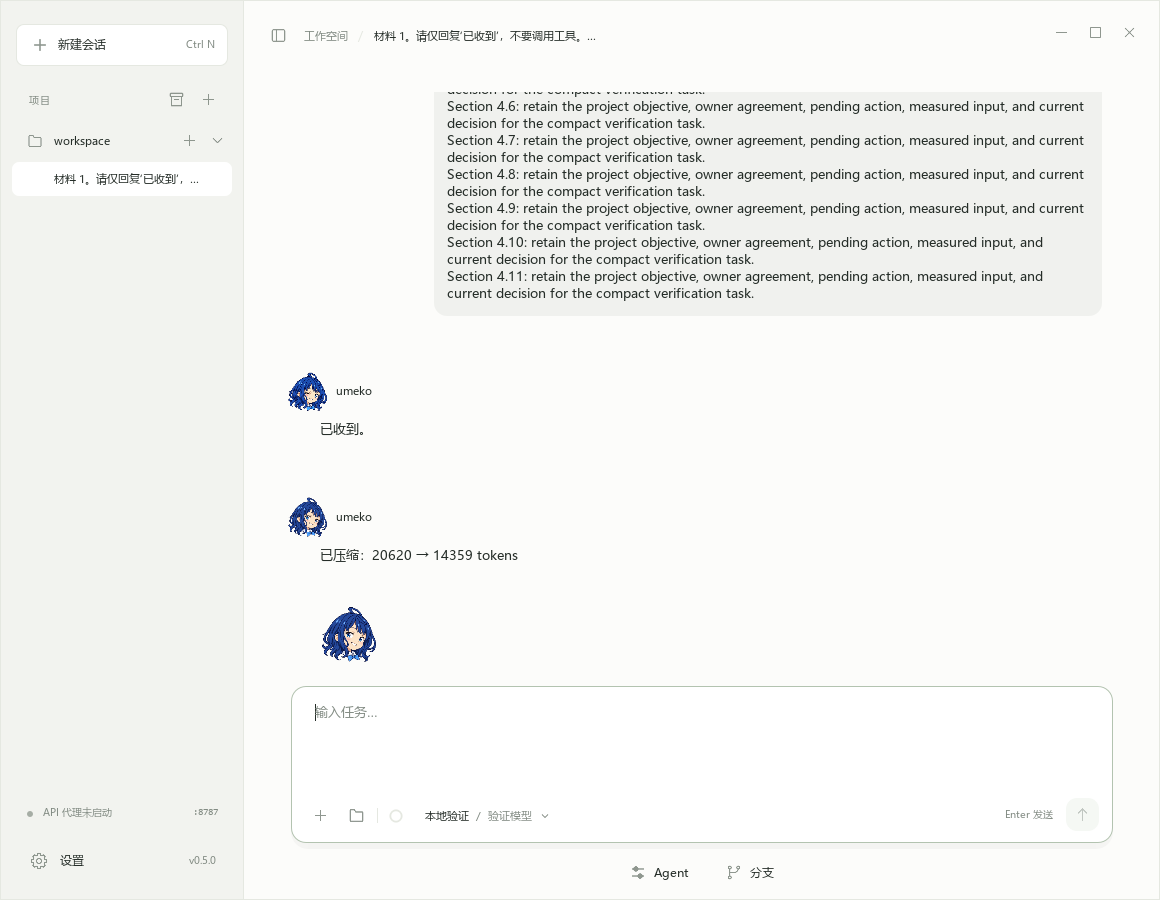
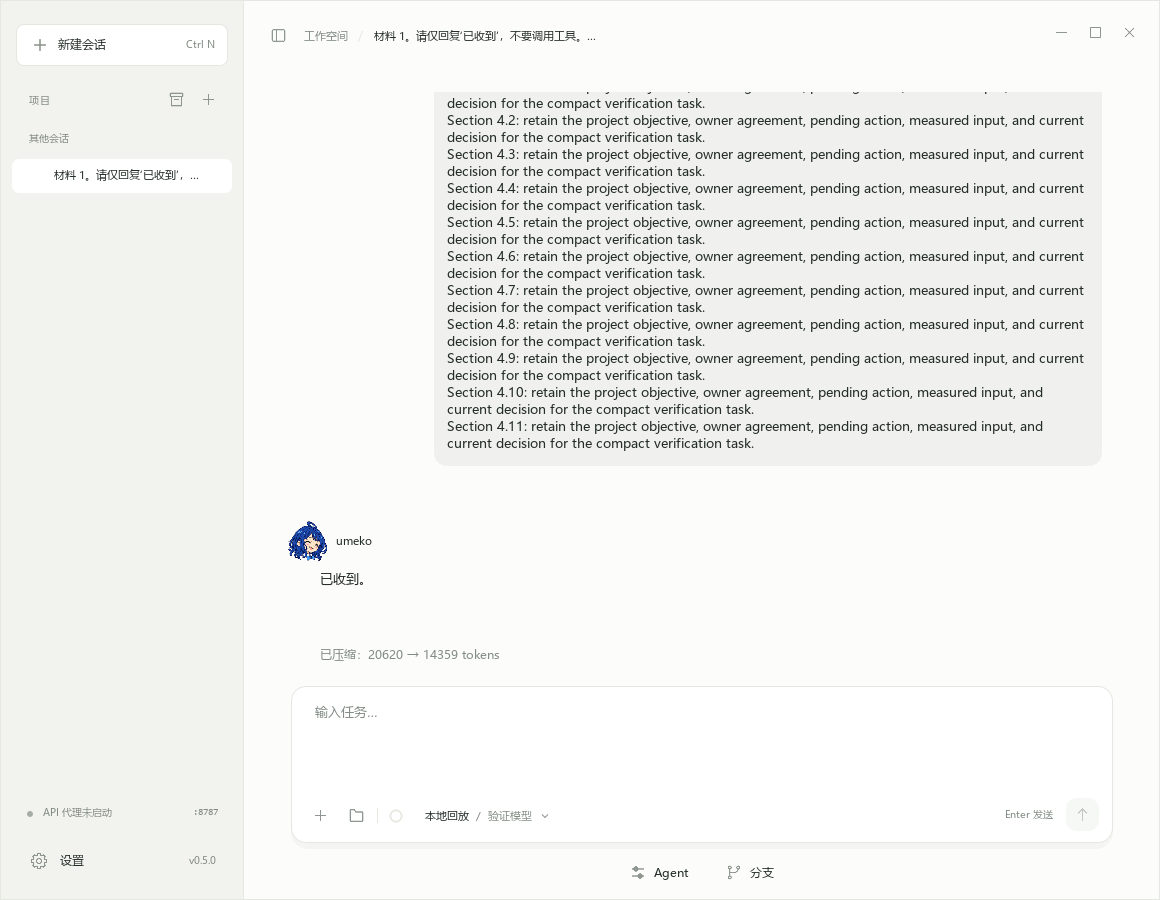
fix(compaction): 复用提示组件显示本地压缩回执
压缩回执复用OutputLimitNotice，以灰色单行呈现，隐藏头像、助手正文、消息操作和结尾吉祥物。仅改变显示，保留原生本地元数据和冷历史重放。

更新composer界面断言，覆盖实时和磁盘冷读。新增断言在旧显示下失败，修复后4项定向测试通过，原输出上限UI检查通过。两张截图使用真实会话副本离屏冷读生成，无模型调用；未修改build.yml。

diff --git a/app/qml/Main.qml b/app/qml/Main.qml
@@ -443,6 +443,7 @@ ApplicationWindow {
                     id: messageRow
                     required property var modelData
                     required property int index
+                    readonly property bool compactionNotice: modelData.customType === "umeko-compaction"
                     readonly property point hoverPoint: chatSelection.mapToItem(messageRow, chatSelection.pointer.x, chatSelection.pointer.y)
                     readonly property bool hovered: chatSelection.hovering && hoverPoint.x >= 0 && hoverPoint.x <= width && hoverPoint.y >= 0 && hoverPoint.y <= height
                     width: conversation.width - 16; spacing: 10
@@ -456,13 +457,13 @@ ApplicationWindow {
                         }
                         ActionButton { x: 33; y: 16; visible: !!modelData._loadError; text: I18n.t("重新加载消息"); glyph: "refresh-cw"; onClicked: backend.messageModel.retryPage(messageRow.index) }
                     }
-                    Row { visible: !modelData._loading && !modelData.continuation && modelData.role !== "user"; spacing: 9
+                    Row { visible: !modelData._loading && !messageRow.compactionNotice && !modelData.continuation && modelData.role !== "user"; spacing: 9
                         AssistantAvatar { objectName: "assistantAvatar_" + messageRow.index; messageKey: window.avatarChatKey + "/" + messageRow.index }
                         SelectableText { selectionController: chatSelection; messageIndex: messageRow.index; blockIndex: -100000; text: "umeko"; anchors.verticalCenter: parent.verticalCenter; color: Theme.ink; font.pixelSize: Theme.font(11); font.weight: Font.DemiBold }
                     }
                     Rectangle {
                         objectName: "messageBubble_" + messageRow.index
-                        visible: !modelData._loading
+                        visible: !modelData._loading && !messageRow.compactionNotice
                         readonly property bool userMessage: modelData.role === "user"
                         width: userMessage ? (modelData.text.length > 512 ? messageRow.width * 0.82 : Math.min(messageRow.width * 0.82, Math.max(64, userBody.implicitWidth + 28))) : parent.width - 33
                         x: userMessage ? parent.width - width : 33
@@ -476,7 +477,7 @@ ApplicationWindow {
                             MessageBody { id: reply; width: parent.width
                                 selectionController: chatSelection; messageIndex: messageRow.index
                                 visible: modelData.role !== "user" && text.length > 0 && !(modelData.activity || []).length
-                                text: modelData.role === "user" || (modelData.activity || []).length ? "" : modelData.customType === "umeko-compaction" ? I18n.t(modelData.text) : modelData.text || (messageRow.index === conversation.count - 1 && backend.busy ? I18n.t(backend.toolStatus) + "…" : "")
+                                text: modelData.role === "user" || (modelData.activity || []).length ? "" : modelData.text || (messageRow.index === conversation.count - 1 && backend.busy ? I18n.t(backend.toolStatus) + "…" : "")
                                 markdown: modelData.role === "assistant" && !modelData.error
                                 textColor: modelData.error ? Theme.danger : Theme.ink }
                         }
@@ -489,6 +490,12 @@ ApplicationWindow {
                         onClicked: requestInspector.show(modelData.diagnosticId)
                     }
                     OutputLimitNotice {
+                        objectName: "compactionNotice_" + messageRow.index
+                        x: 33; width: parent.width - 33
+                        visible: !modelData._loading && messageRow.compactionNotice
+                        text: messageRow.compactionNotice ? I18n.t(modelData.text) : ""
+                    }
+                    OutputLimitNotice {
                         objectName: "outputLimitNotice_" + messageRow.index
                         x: 33; width: parent.width - 33
                         visible: !modelData._loading && modelData.segmentLast !== false && modelData.role === "assistant" && modelData.stopReason === "length"
@@ -497,7 +504,7 @@ ApplicationWindow {
                     }
                     Item {
                         objectName: "messageActions_" + messageRow.index
-                        visible: !modelData._loading && modelData.segmentLast !== false
+                        visible: !modelData._loading && !messageRow.compactionNotice && modelData.segmentLast !== false
                         width: parent.width; height: 18
                         opacity: messageRow.hovered || actionHover.hovered ? 1 : 0
                         HoverHandler { id: actionHover }
@@ -513,7 +520,7 @@ ApplicationWindow {
                     ReplyMascot {
                         objectName: "replyEndMascot_" + messageRow.index
                         selectionController: chatSelection
-                        visible: !modelData._loading && messageRow.index === conversation.count - 1 && modelData.role === "assistant" && !modelData.error && (modelData.text || "").trim().length > 0 && !backend.running
+                        visible: !modelData._loading && !messageRow.compactionNotice && messageRow.index === conversation.count - 1 && modelData.role === "assistant" && !modelData.error && (modelData.text || "").trim().length > 0 && !backend.running
                         x: 33
                     }
                 }

diff --git a/app/qml/OutputLimitNotice.qml b/app/qml/OutputLimitNotice.qml
@@ -2,10 +2,12 @@ import QtQuick
 import QtQuick.Layouts
 
 RowLayout {
+    property alias text: noticeText.text
     property bool continuable: false
     signal continued()
     spacing: 10
     Text {
+        id: noticeText
         Layout.fillWidth: true
         text: I18n.t("已达到本次输出上限，内容可能尚未完成")
         color: Theme.muted; font.pixelSize: Theme.font(12)

diff --git a/tests/compact_composer_case.py b/tests/compact_composer_case.py
@@ -26,6 +26,7 @@ from PySide6.QtWidgets import QApplication
 from app.controller import Controller
 from app.integration import Completion
 from app.syntax_highlight import register_text_types
+from app.transcript_index import TranscriptRepository
 
 ROOT = Path(__file__).resolve().parents[1]
 
@@ -142,11 +143,30 @@ class CompactComposerTests(unittest.TestCase):
         self.assertTrue(notices, "Compaction notice was not persisted in native history")
         self.assertEqual(notices[-1]["data"]["version"], 1)
         self.assertEqual(notices[-1]["data"]["before"], result["before"])
+        self.assert_notice_style()
+
+    def assert_notice_style(self):
+        self.wait_for(lambda: any(item.objectName().startswith("compactionNotice_") and item.isVisible()
+                                 for item in items(self.window)))
+        notice = next(item for item in items(self.window)
+                      if item.objectName().startswith("compactionNotice_") and item.isVisible())
+        self.assertIn("已压缩：", notice.property("text"))
+        self.assertFalse(notice.property("continuable"))
+        index = notice.objectName().rsplit("_", 1)[1]
+        for prefix in ("assistantAvatar_", "messageBubble_", "messageActions_", "replyEndMascot_"):
+            row_item = next(item for item in items(self.window) if item.objectName() == prefix + index)
+            self.assertFalse(row_item.isVisible(), prefix + " must not render for a local notice")
 
     def test_enter_dispatches_idle_compact_with_instructions(self):
         self.seed()
         self.enter("  /compact\t保留当前任务  ")
         self.assert_compacted("保留当前任务")
+        # Rebuild the display from disk, without the live record's messages or cache.
+        repository = TranscriptRepository(self.path / "cold-cache")
+        self.backend._view.transcript = repository.open(Path(self.backend._view.file))
+        self.backend._view.messages = []
+        self.backend.chatChanged.emit()
+        self.assert_notice_style()
 
     def test_busy_enter_queues_compact_until_original_turn_finishes(self):
         self.seed()
